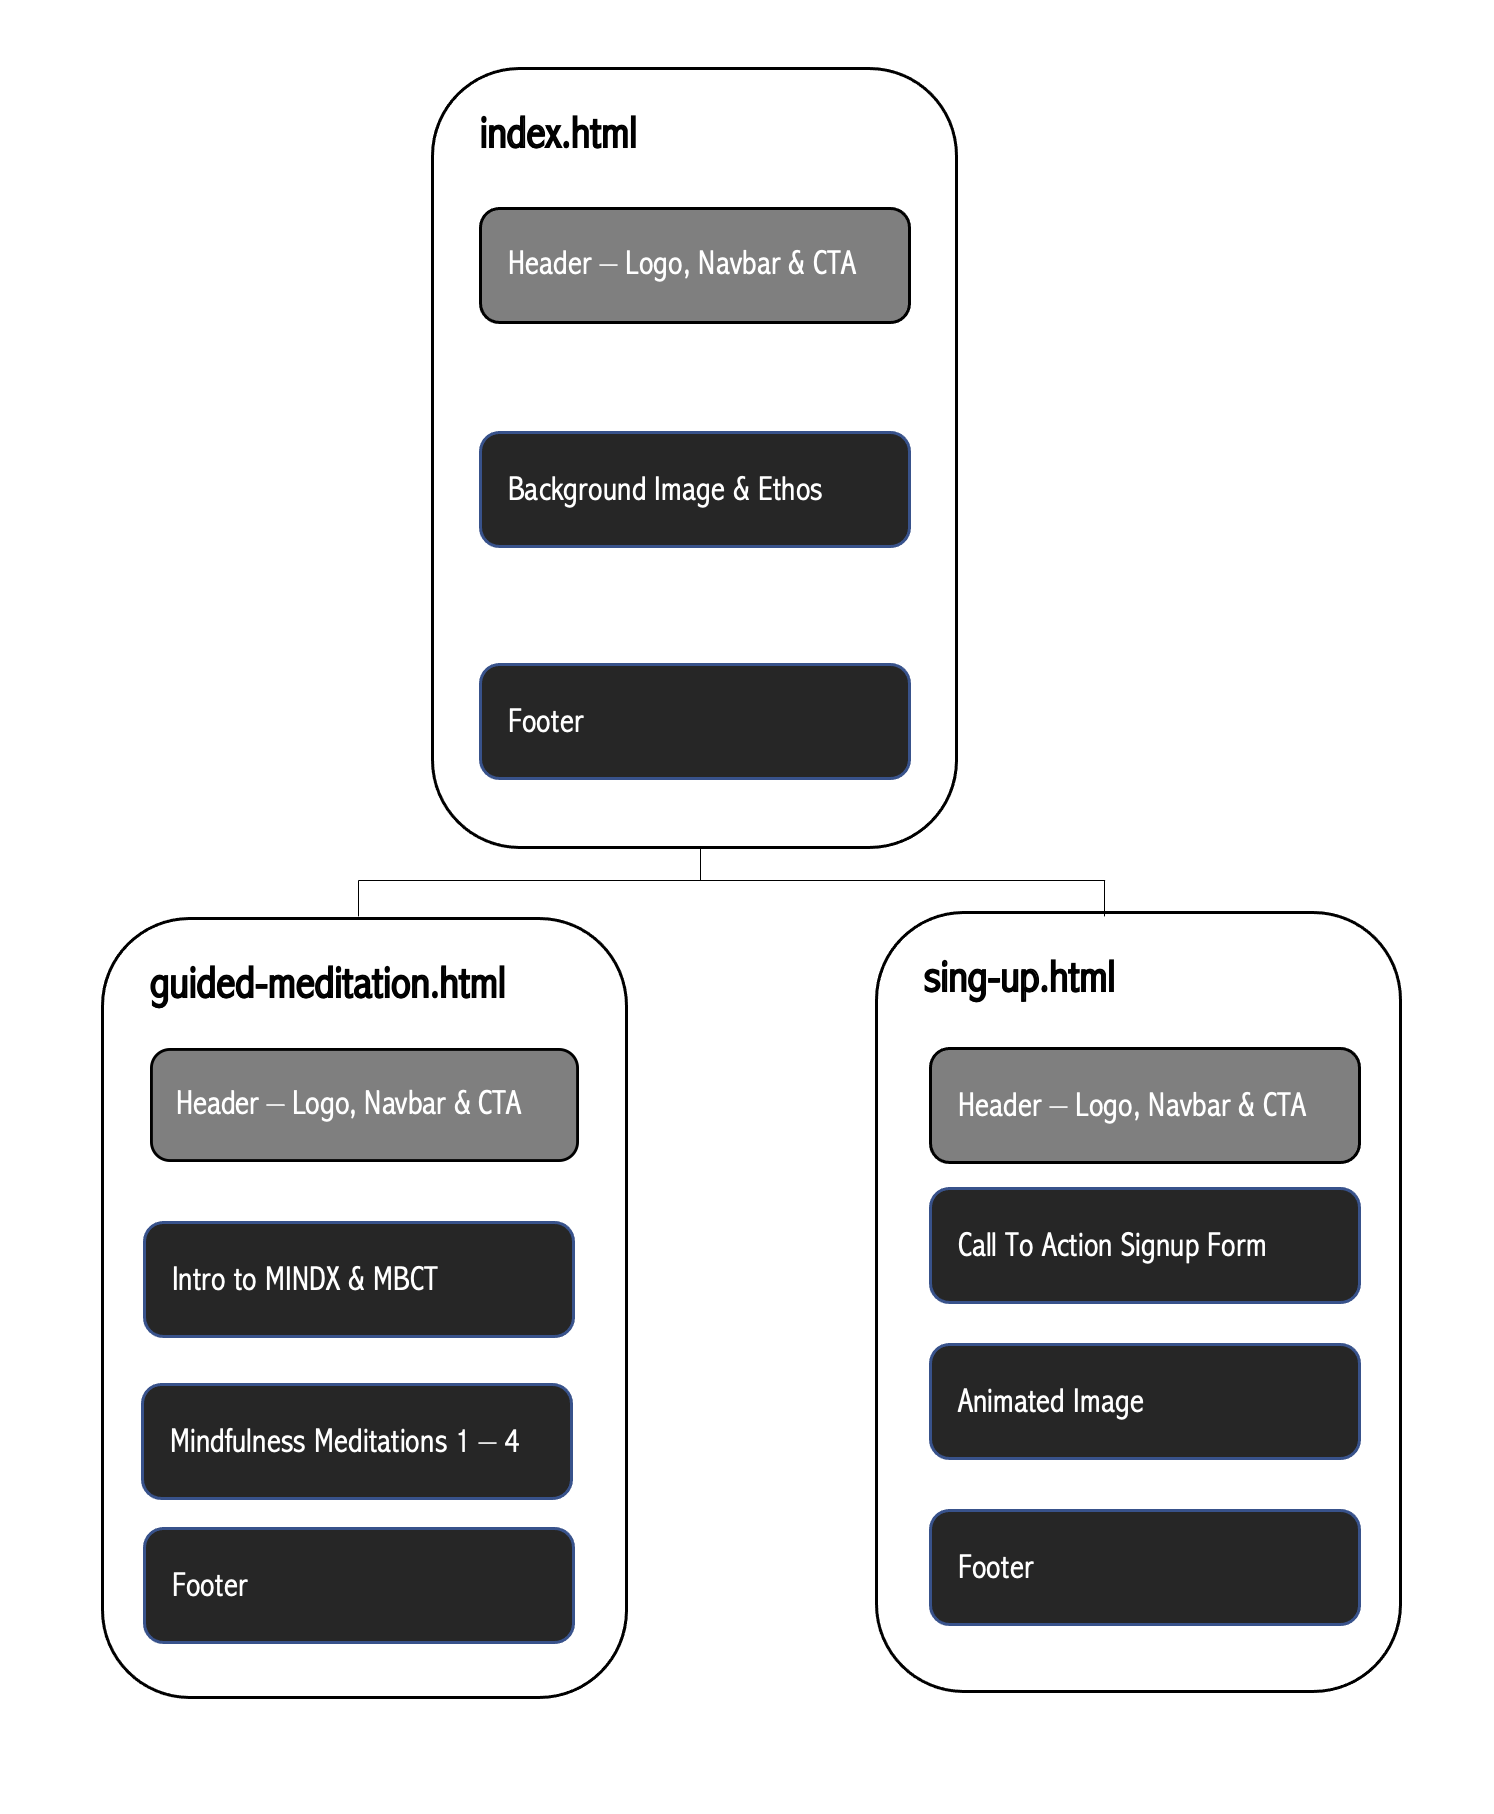
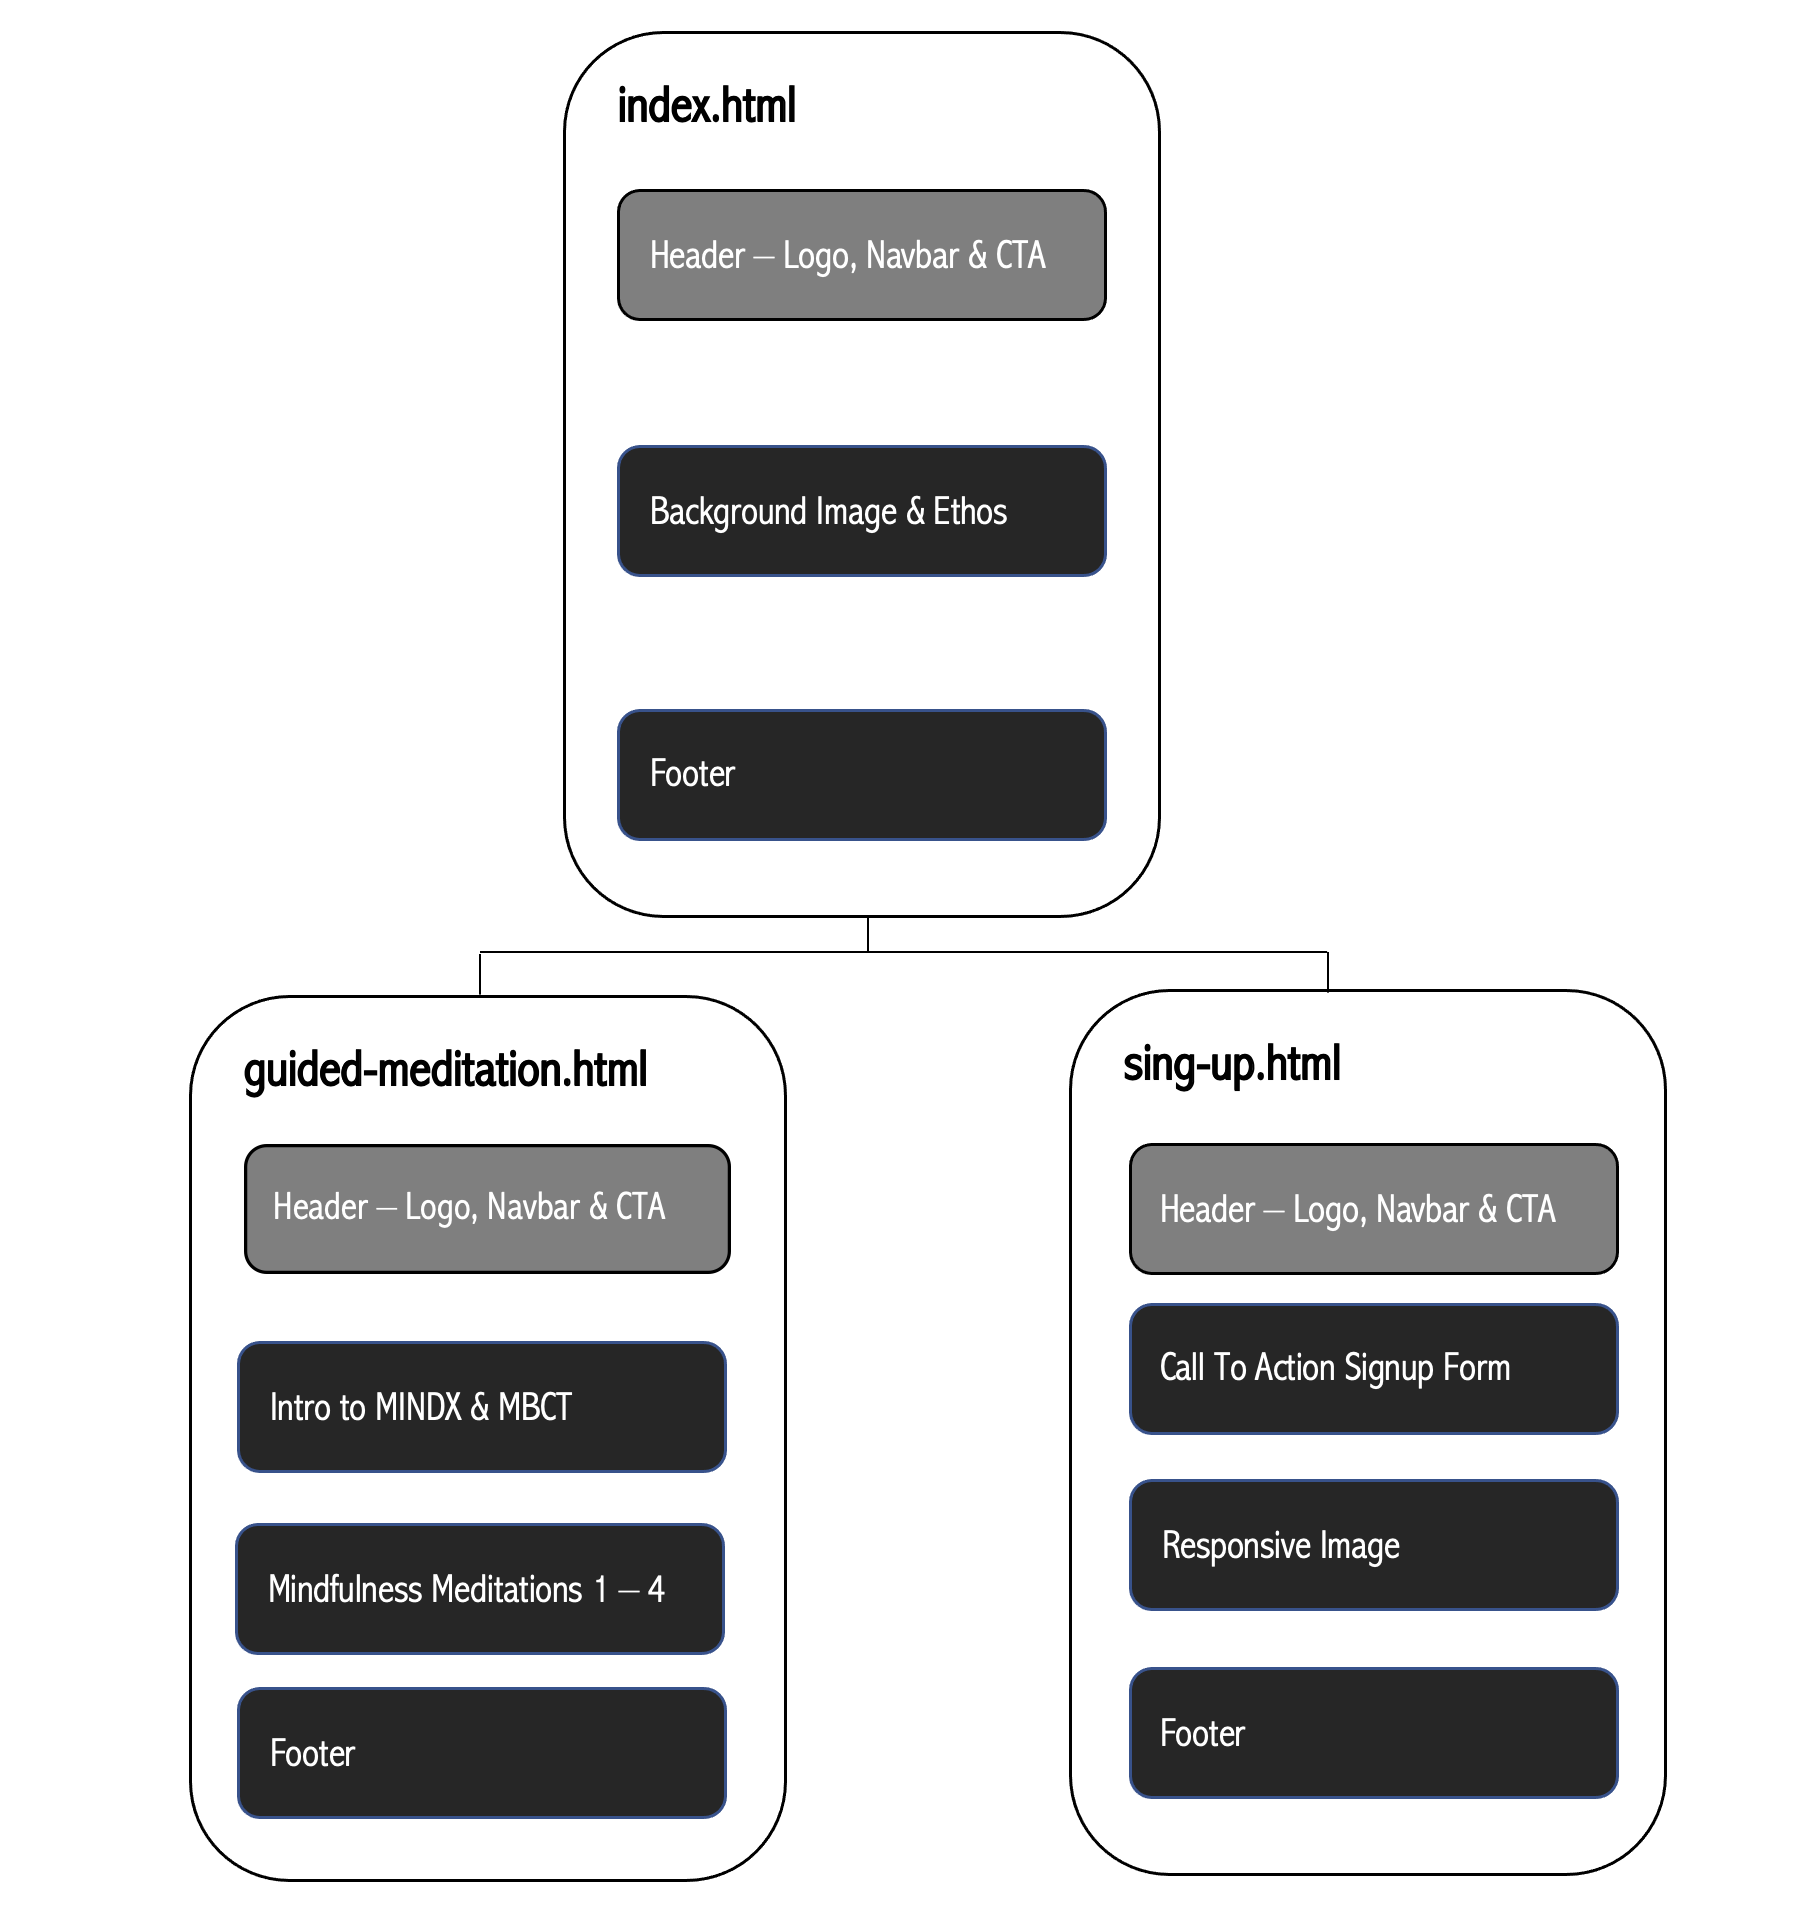
Add surface plane, technologies used & bugs & issues to readme

Changed region(s): [[0.0616, 0.0309, 0.6466, 0.957], [0.585, 0.4939, 0.9545, 0.957], [0.4003, 0.5248, 0.4311, 0.5557]]

diff --git a/README.md b/README.md
@@ -73,7 +73,7 @@ The overarching strategy behind MIND**X** is to teach users the fundamental prin
 MIND**X** will focus on the following user attributes acquired from various cross-sectional clinical studies regarding meditative app usage: 
 
 **Demographics**
--	Ages 18 – 65c
+-	Ages 18 – 65
 -	All genders (mainly females)
 -	All ethnicities and religions 
 -	Suffering with a mental illness mainly: anxiety, depression, stress & sleep disorders 
@@ -147,7 +147,7 @@ MIND**X**'s highest priority is to teach users body/mind self-improvement techni
 
 ![Hierarchical Tree Structure](assets/readme-assets/site-structure.png)
 
-Even though the site is currently a minimal viable product meaning a modest amount of information, three separate pages are needed for future manageability. MINDX has specific content (helpful articles, games & downloadable items) it needs to add to each section. This design deliberately follows the teachings of mindfulness ~ living in the present as to make each page unique and the primary focus of the user. 
+Even though the site is currently a minimal viable product meaning a modest amount of information, three separate pages are needed for future manageability. MINDX has specific content (helpful articles, games & downloadable items) it needs to add to each section. Furthermore this design deliberately follows the teachings of mindfulness ~ living in the present as to make each page unique and the primary focus for the user. 
 
 
 index.html:
@@ -164,14 +164,14 @@ guided-meditation.html:
 sign-up.html:
 -	Header – creates uniformity and establishes conventions. 
 -	Call To Action Signup Form – allows users to create an account with MINDX in a bid to develop a core client base.  
--	Animated Image – creates interest around the page whilst strengthening the brand. 
+-	Interactive Image – creates interest around the page whilst strengthening the brand. 
 -	Footer – gives another opportunity to get in touch and explore.   
 
 [Back To Top](#mindx)
 
 ***
 # Skeleton 
-Wireframes were created using Balsamic to determine the basic navigation and interface design of the site. It is important to give form to function meaning the meditative lessons need to speak for themselves. A minimalistic design in terms of navigation and content is employed accompanied by engaging images and key text. Market leading competitors such as Headspace, Calm & Brainfm have adopted similar methodologies so it is important to leverage user’s prior experience. The site will utilise progressive disclosure which is especially important when learning meditation as this is deemed the best way an individual can absorb and make meditation into a habit. 
+Wireframes were created using Balsamic to determine the basic navigation and interface design of the site. It is important to give form to function meaning the meditative lessons need to speak for themselves. A minimalistic design in terms of navigation and content is employed accompanied by engaging images and key text. Market leading competitors such as Headspace, Calm & Brainfm have adopted similar methodologies so it is important to leverage user’s prior experience. The site will utilise progressive disclosure which is especially important when learning meditation as this is deemed the best way an individual can absorb and turn meditation into a habit. 
 
 **Balsamic Wireframe:**
 
@@ -191,5 +191,67 @@ Wireframes were created using Balsamic to determine the basic navigation and int
 
 ![Site Wireframe](assets/readme-assets/mindx-wireframe/phone-signup.png)  
 
+[Back To Top](#mindx)
 
+***
+# Surface
 
+## Colour Scheme  
+The colour story behind MIN**X** was inspired from the background image used on the Home page; a peach (#f1c2b0) background leads with accents of “brain pink” (#f7756f) to complement. White (#ffffff) was later injected to provide a dynamic colour scheme. Finally light blue (#468C98) was introduced on the Sign-Up page as a kind of tease for future releases and colour story. 
+![Color Scheme](assets/readme-assets/mindx-color-scheme.png)
+
+## Typography
+Three different fonts are used throughout the website for different connotations, creating a strong font design. The two main pairings are Raleway and Roboto which are both sans-serif fonts that complement each other. Both have an extensive font family meaning they have a variety of thin and bold choices giving a good contrast. For example, Raleway (900 weight) is used for the logo, ethos and main headings, capturing the user’s attention while Roboto (300 weight) is used for the body text as the letter form works well together. Oswald (500 weight) another sans-serif font is used solely for the navigation items as to make the stand out from the rest of the information.
+
+## Imagery
+The images used in MIND**X** are connected to the field on mindfulness and the wider topics surrounding it. The landing page uses a high-fidelity image of a brain meant to immediately capture the user’s attention. Ideally the remaining images would have been the same quality but due to resource constraints icons were used. This said text-shadows were used to tie the image together as to be cohesive. 
+
+## Features
+**Header**
+ -	Logo – introduces MIND**X** identity and initiates the user’s discovery phase where they begin to ask questions about the brand.
+-	Navigation Links – facilitates the user’s exploration of the site through three clearly defined sections. 
+-	Call To Action – gives users visual que to sign up to MIND**X** increasing client base and informing them about future releases.  
+
+![Header](assets/readme-assets/header.png)
+
+**Footer**
+-	Social Media Links – allows users to view MIND**X** as a whole outside of the context of the web app. 
+-	Contact Information – permits users to contact MIND**X** for any questions relating to the exercises or general information. 
+-	Copyright – protects MINDX intellectual property. 
+
+![Footer](assets/readme-assets/footer.png)
+
+**index.html** 
+-	Background Image – an impactful and eye-catching image welcoming the user to the site and teasing what is ahead.
+-	Ethos – text accompanying the background image, reinforcing what MIND**X** is about and what the user should expect moving forward. 
+
+![Home Page](assets/readme-assets/home-page.png)
+
+**guided-meditations.html**
+•	Guided Meditation Introduction – defines the founding concepts that make MIND**X** unique such as mindfulness, MBCT and guided meditations that work their way up in difficulty and applicability. 
+
+![Intro MBCT](assets/readme-assets/intro-to-mbct.png)
+
+•	Exercises – ten guided exercises that are comprised of a title, introductory paragraph, video/audio exercise and an image. This type of progressive disclosure is used to give a brief overview of what each exercise is before engaging with the actual instructional meditation. This allows the user to access their most relevant exercises for their specific needs. 
+
+![Guided Meditations](assets/readme-assets/exercises.png)
+
+**sign-up.html** 
+-	Signup Form – gives users the chance to sign up to MINDX increasing client base and updating them about future releases.  
+
+![Sign Up Form](assets/readme-assets/sign-up-form.png)
+
+-	Interactive Image – familiarises users with what they should expect for future releases. MINDX will make more interactive interactions. 
+
+![Sign Up Form](assets/readme-assets/responsive-image.png)
+
+## Features To Implement
+-	Useful Articles – links to external peer reviewed papers and official bodies relating to the wider topics surrounding the field. 
+-	Inspirational Quotes – a random inspirational quote generator. 
+-	Colouring Pages – downloadable mindful colour pages used for relaxation and focus. 
+-	Games – mindful and meditative games which would increase and sustain site traffic. 
+
+[Back To Top](#mindx)
+
+***
+# Technologies Used 
